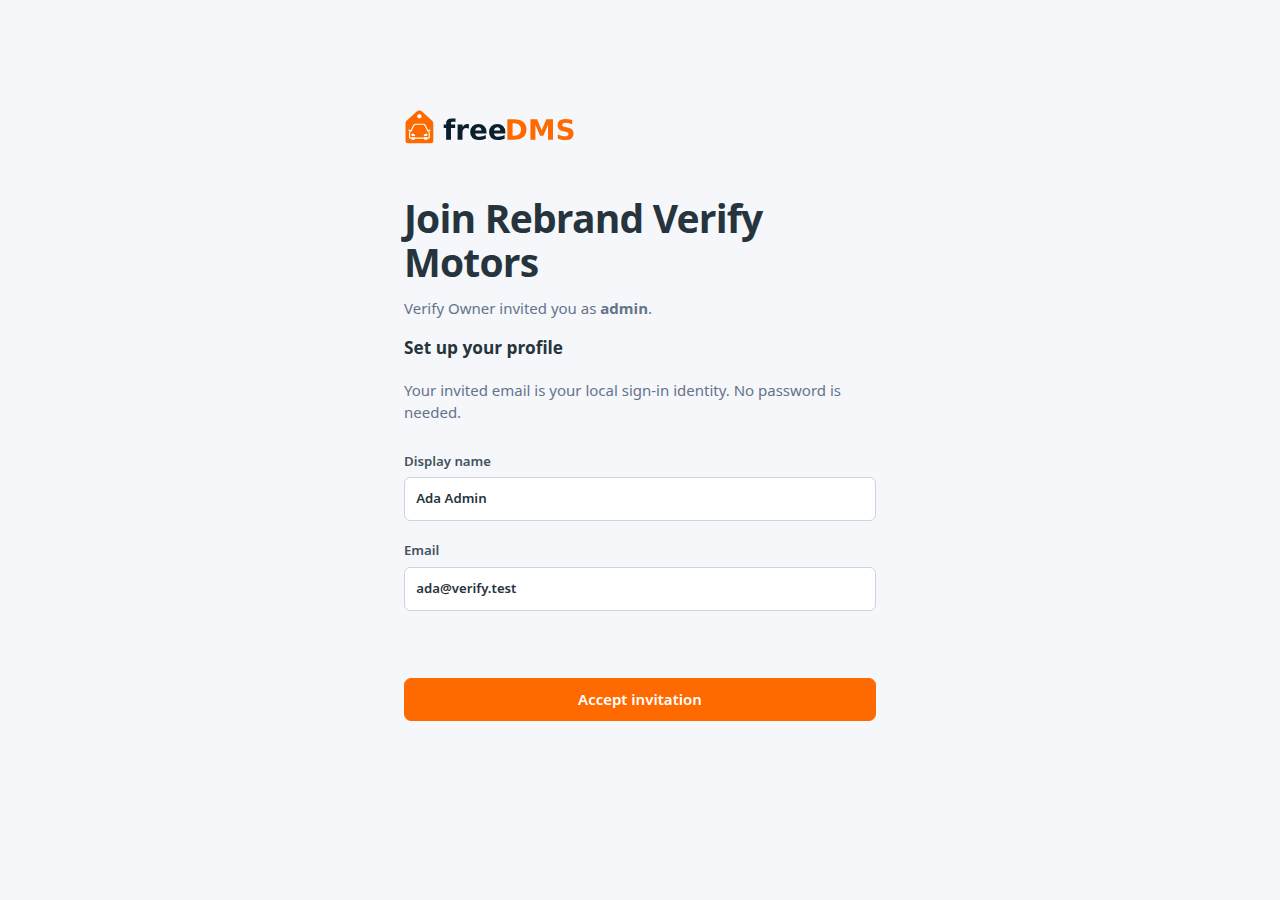
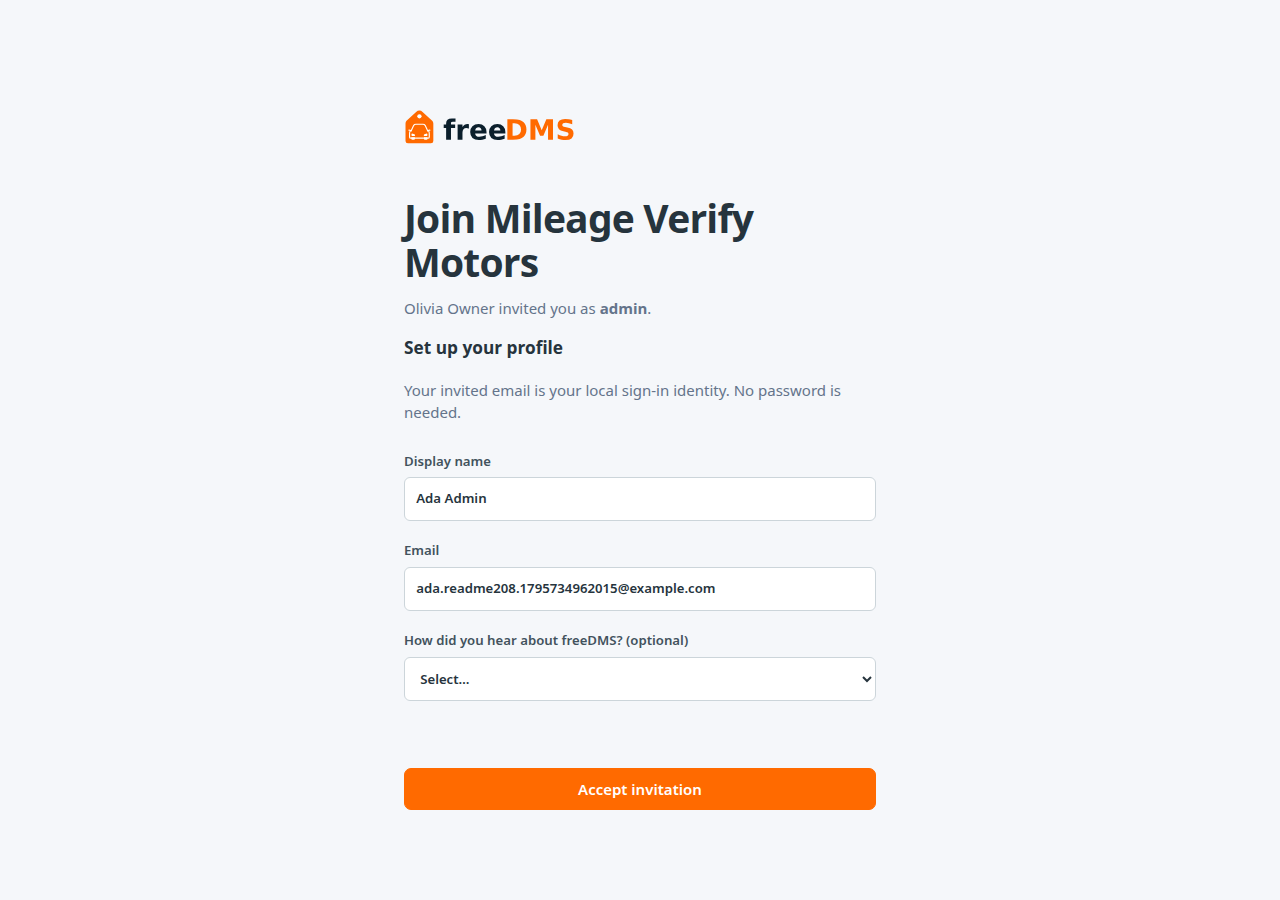
Add hear-about-us attribution capture to pilot request and invite acceptance (#208)

diff --git a/packages/web/src/onboarding.ts b/packages/web/src/onboarding.ts
@@ -2,8 +2,9 @@ import { TERMS_VERSION, PRIVACY_VERSION } from '@freedms/shared';
 import type { Invite } from '@freedms/shared';
 import { escapeHtml as e } from './format';
 import { bindInviteCopies, inviteLinksHtml } from './invites';
+import { bindHearAbout, hearAboutFieldsHtml, readHearAbout } from './hear-about';
 interface InviteRow { name: string; email: string; role: string }
-export interface Onboarding { name: string; email: string; dealership: string; address: string; phone: string; dealerType: string; invites: InviteRow[] }
+export interface Onboarding { name: string; email: string; dealership: string; address: string; phone: string; dealerType: string; invites: InviteRow[]; hearAbout: string; hearAboutPrompt: string }
 export function onboardingError(data: Onboarding, step: number, accepted = false): string {
   const email = (value: string) => /^[^\s@]+@[^\s@]+\.[^\s@]+$/.test(value.trim()) && value.trim().length <= 254;
   if (step === 0 && (!data.name.trim() || !email(data.email))) return 'Enter your name and a valid email address.';
@@ -28,20 +29,22 @@ export function acceptanceHtml(accepted: boolean): string {
   return `<p><strong>Draft — pending final legal review</strong></p><p>By accepting, you represent that the dealership exists and you have authority to bind it. If no dealership is bound because it does not exist or you lack authority, you agree personally to be bound as the Dealer, as described in Section 1.1.</p><label class="check terms-accept"><input type="checkbox" name="termsAccepted" ${accepted ? 'checked' : ''}><span>I agree to the <a href="#/terms" target="_blank" rel="noopener noreferrer">Terms of Service</a> and <a href="#/privacy" target="_blank" rel="noopener noreferrer">Privacy Notice</a></span></label>`;
 }
 export function mountOnboarding(root: HTMLElement, finish: (data: ReturnType<typeof signupPayload>) => Promise<{invites: Invite[]}>, enter: () => void): void {
-  const data: Onboarding = {name: '', email: '', dealership: '', address: '', phone: '', dealerType: '', invites: []};
+  const data: Onboarding = {name: '', email: '', dealership: '', address: '', phone: '', dealerType: '', invites: [], hearAbout: '', hearAboutPrompt: ''};
   let step = 0, accepted = false;
   const field = (label: string, key: string, value: string, max = 120, type = 'text') => `<label>${label}<input name="${key}" value="${e(value)}" maxlength="${max}" type="${type}"></label>`;
   function render() {
     const titles = ['Your account', 'Your dealership', 'Invite your team (optional)', 'Review and finish'];
-    root.innerHTML = `<p class="eyebrow">Step ${step + 1} of 4</p><h2>${titles[step]}</h2><form novalidate><div class="error" role="alert" tabindex="-1" hidden></div>${step === 0 ? field('Your name', 'name', data.name) + field('Email', 'email', data.email, 254, 'email') : step === 1 ? field('Dealership name', 'dealership', data.dealership) + field('Address', 'address', data.address, 500) + field('Phone', 'phone', data.phone, 50, 'tel') + `<label>Dealer type<select name="dealerType">${['', 'independent', 'franchise', 'other'].map(v => `<option value="${v}" ${data.dealerType === v ? 'selected' : ''}>${v || 'Choose a dealer type'}</option>`).join('')}</select></label>` : step === 2 ? `<p>Share invite links yourself. No email is sent. Up to 10 invites.</p>${data.invites.map((row, i) => `<fieldset><legend>Invite ${i + 1}</legend>${field('Name', `name-${i}`, row.name)}${field('Email', `email-${i}`, row.email, 254, 'email')}<label>Role<select name="role-${i}">${['staff', 'admin'].map(v => `<option ${row.role === v ? 'selected' : ''}>${v}</option>`).join('')}</select></label><button type="button" data-remove="${i}">Remove invite ${i + 1}</button></fieldset>`).join('')}<button type="button" id="add-invite" ${data.invites.length >= 10 ? 'disabled' : ''}>Add invite</button>` : `<h3>Your account</h3><p>${e(data.name)} · ${e(data.email)}</p><h3>Your dealership</h3><p>${e(data.dealership)}<br>${e(data.address)}<br>${e(data.phone)} · ${e(data.dealerType)}</p><h3>Your team</h3>${data.invites.length ? `<ul>${data.invites.map(r => `<li>${e(r.name)} · ${e(r.email)} · ${e(r.role)}</li>`).join('')}</ul>` : '<p>No invites.</p>'}<p>Finish creates your empty workspace and pending invites. No email is sent.</p>${acceptanceHtml(accepted)}`}<div class="form-actions">${step ? '<button type="button" id="wizard-back">Back</button>' : ''}<button class="primary" type="submit" ${step === 3 && !accepted ? 'disabled' : ''}>${step === 3 ? 'Finish' : step === 2 && !data.invites.length ? 'Skip / Next' : 'Next'}</button></div></form>`;
+    root.innerHTML = `<p class="eyebrow">Step ${step + 1} of 4</p><h2>${titles[step]}</h2><form novalidate><div class="error" role="alert" tabindex="-1" hidden></div>${step === 0 ? field('Your name', 'name', data.name) + field('Email', 'email', data.email, 254, 'email') : step === 1 ? field('Dealership name', 'dealership', data.dealership) + field('Address', 'address', data.address, 500) + field('Phone', 'phone', data.phone, 50, 'tel') + `<label>Dealer type<select name="dealerType">${['', 'independent', 'franchise', 'other'].map(v => `<option value="${v}" ${data.dealerType === v ? 'selected' : ''}>${v || 'Choose a dealer type'}</option>`).join('')}</select></label>` : step === 2 ? `<p>Share invite links yourself. No email is sent. Up to 10 invites.</p>${data.invites.map((row, i) => `<fieldset><legend>Invite ${i + 1}</legend>${field('Name', `name-${i}`, row.name)}${field('Email', `email-${i}`, row.email, 254, 'email')}<label>Role<select name="role-${i}">${['staff', 'admin'].map(v => `<option ${row.role === v ? 'selected' : ''}>${v}</option>`).join('')}</select></label><button type="button" data-remove="${i}">Remove invite ${i + 1}</button></fieldset>`).join('')}<button type="button" id="add-invite" ${data.invites.length >= 10 ? 'disabled' : ''}>Add invite</button>` : `<h3>Your account</h3><p>${e(data.name)} · ${e(data.email)}</p><h3>Your dealership</h3><p>${e(data.dealership)}<br>${e(data.address)}<br>${e(data.phone)} · ${e(data.dealerType)}</p><h3>Your team</h3>${data.invites.length ? `<ul>${data.invites.map(r => `<li>${e(r.name)} · ${e(r.email)} · ${e(r.role)}</li>`).join('')}</ul>` : '<p>No invites.</p>'}<p>Finish creates your empty workspace and pending invites. No email is sent.</p>${hearAboutFieldsHtml(data.hearAbout, data.hearAboutPrompt)}${acceptanceHtml(accepted)}`}<div class="form-actions">${step ? '<button type="button" id="wizard-back">Back</button>' : ''}<button class="primary" type="submit" ${step === 3 && !accepted ? 'disabled' : ''}>${step === 3 ? 'Finish' : step === 2 && !data.invites.length ? 'Skip / Next' : 'Next'}</button></div></form>`;
     const form = root.querySelector('form')!;
     const checkbox = form.querySelector<HTMLInputElement>('[name=termsAccepted]');
     checkbox?.addEventListener('change', () => { accepted = checkbox.checked; form.querySelector<HTMLButtonElement>('[type=submit]')!.disabled = !accepted; });
     const save = () => {
       const values = new FormData(form);
-      if (step === 0 || step === 1) for (const key of (step === 0 ? ['name', 'email'] : ['dealership', 'address', 'phone', 'dealerType']) as (keyof Omit<Onboarding, 'invites'>)[]) data[key] = String(values.get(key) ?? '');
+      if (step === 0 || step === 1) for (const key of (step === 0 ? ['name', 'email'] : ['dealership', 'address', 'phone', 'dealerType']) as (keyof Omit<Onboarding, 'invites' | 'hearAbout' | 'hearAboutPrompt'>)[]) data[key] = String(values.get(key) ?? '');
       if (step === 2) data.invites.forEach((row, i) => { for (const key of ['name', 'email', 'role'] as const) row[key] = String(values.get(`${key}-${i}`) ?? ''); });
+      if (step === 3) Object.assign(data, readHearAbout(form));
     };
+    if (step === 3) bindHearAbout(form);
     root.querySelector('#wizard-back')?.addEventListener('click', () => { save(); step--; render(); });
     root.querySelector('#add-invite')?.addEventListener('click', () => { save(); data.invites.push({name: '', email: '', role: 'staff'}); render(); });
     root.querySelectorAll<HTMLButtonElement>('[data-remove]').forEach(b => b.addEventListener('click', () => { save(); data.invites.splice(Number(b.dataset.remove), 1); render(); }));

diff --git a/packages/api/src/invites.ts b/packages/api/src/invites.ts
@@ -4,6 +4,7 @@ import type { CrmWrite, RepositoryFactory, TenantRepository } from './repository
 import { ApiError, conflict, missing, requireId } from './errors.js';
 import { parseBody, response, type ApiRequest } from './handler.js';
 import { invalid, object, onlyKeys, text } from './validation.js';
+import { hearAbout as parseHearAbout } from './hear-about.js';
 import { emailAddress } from './users.js';
 const hash = (token: string) => createHash('sha256').update(token).digest('hex');
 function credentials(tenantId: string) {
@@ -11,11 +12,12 @@ function credentials(tenantId: string) {
   return {token, tokenHash: hash(token)};
 }
 export function validateOnboarding(input: Record<string, unknown>) {
-  onlyKeys(input, ['acceptance', 'onboarding', 'name', 'email', 'dealership', 'address', 'phone', 'dealerType', 'invites']);
+  onlyKeys(input, ['acceptance', 'onboarding', 'name', 'email', 'dealership', 'address', 'phone', 'dealerType', 'invites', 'hearAbout', 'hearAboutPrompt']);
   text(input.name, 'Your name'); text(input.dealership, 'Dealership');
   const email = emailAddress(input.email);
   if (!['independent', 'franchise', 'other'].includes(String(input.dealerType))) throw invalid('Choose a dealer type.');
-  const profile = {address: text(input.address, 'Address', 500), phone: text(input.phone, 'Phone', 50), dealerType: input.dealerType as Tenant['dealerType']};
+  const attribution = parseHearAbout(input);
+  const profile = {address: text(input.address, 'Address', 500), phone: text(input.phone, 'Phone', 50), dealerType: input.dealerType as Tenant['dealerType'], ...(attribution.hearAbout ? {hearAbout: attribution.hearAbout, hearAboutPrompt: attribution.hearAboutPrompt} : {})};
   if (!Array.isArray(input.invites) || input.invites.length > 10) throw invalid('Enter at most 10 invites.');
   const seen = new Set([email]);
   const invites = input.invites.map(value => {
@@ -94,7 +96,7 @@ export async function manageInvites(request: ApiRequest, principal: Principal, r
   return response(200, {data: fresh ? {...record, token: fresh.token} : record});
 }
 /** Validate against the stored invite inside the repository write boundary. */
-export function acceptanceWrite(tenantId: string, current: Invite | undefined, supplied: Invite, user: User, rows: WorkspaceUser[], now: Date, tenant: Tenant | undefined) {
+export function acceptanceWrite(tenantId: string, current: Invite | undefined, supplied: Invite, user: User, rows: WorkspaceUser[], now: Date, tenant: Tenant | undefined, attribution?: {hearAbout: string; hearAboutPrompt: string}) {
   if (!tenant || tenant.id !== tenantId) throw conflict();
   if (!current || current.tenantId !== tenantId || supplied.tenantId !== tenantId || current.version !== supplied.version || current.tokenHash !== supplied.tokenHash || current.status !== 'pending' || current.expiresAt <= now.toISOString()) throw conflict();
   if (user.email !== current.email || !user.name.trim() || rows.some(r => r.user.id === user.id)) throw conflict();
@@ -105,14 +107,17 @@ export function acceptanceWrite(tenantId: string, current: Invite | undefined, s
   const member = {tenantId, userId: user.id, role: current.role, active: true, version: 1};
   const event = {...inviteWrite(record, user.id, current.version).event, type: 'invite.accepted' as const};
   const memberEvent = {...event, id: randomUUID(), aggregateId: user.id, aggregateVersion: 1, type: 'user.added' as const};
-  return {record, member, event, memberEvent, tenant: {...tenant, inviteAcceptedAt: tenant.inviteAcceptedAt ?? now.toISOString()}};
+  // Attribution is asked once per tenant (#208): the first answer given at any
+  // acceptance wins and later acceptances never overwrite it.
+  return {record, member, event, memberEvent, tenant: {...tenant, inviteAcceptedAt: tenant.inviteAcceptedAt ?? now.toISOString(), ...(attribution?.hearAbout && !tenant.hearAbout ? {hearAbout: attribution.hearAbout, hearAboutPrompt: attribution.hearAboutPrompt} : {})}};
 }
 export async function publicInvite(request: ApiRequest, repositories: RepositoryFactory, now: Date, hosted = false) {
   const method = request.method.toUpperCase();
   const accepting = request.path.endsWith('/accept');
   if (method !== (accepting ? 'POST' : 'GET')) throw new ApiError(405, 'METHOD_NOT_ALLOWED', 'Method not allowed.');
   let profile: {name: string; email: string} | undefined;
-  if (accepting) { const body = parseBody(request.body); onlyKeys(body, ['name', 'email']); profile = {name: text(body.name, 'Name'), email: emailAddress(body.email)}; }
+  let attribution: {hearAbout: string; hearAboutPrompt: string} | undefined;
+  if (accepting) { const body = parseBody(request.body); onlyKeys(body, ['name', 'email', 'hearAbout', 'hearAboutPrompt']); profile = {name: text(body.name, 'Name'), email: emailAddress(body.email)}; attribution = parseHearAbout(body); }
   const refuse = (reason?: 'expired' | 'revoked' | 'accepted') => response(200, {data: accepting ? {outcome: 'refused', ...(reason ? {reason} : {})} : {valid: false, ...(reason ? {reason} : {})}});
   const match = /^\/invite\/([\w-]{1,128}\.[a-f0-9]{64})(?:\/accept)?$/.exec(request.path);
   if (!match) return refuse();
@@ -132,7 +137,7 @@ export async function publicInvite(request: ApiRequest, repositories: Repository
       throw new ApiError(403, 'INVITE_IDENTITY', 'Sign in with the verified account invited to this dealership.');
     const user = {id: hosted ? requireId(request.claims!.sub) : randomUUID(), name: profile.name, email: invite.email};
     try {
-      const outcome = await repo.acceptInvite(invite, user, now);
+      const outcome = await repo.acceptInvite(invite, user, now, attribution);
       return response(200, {data: {outcome, tenantId: tenant.id, email: invite.email, role: invite.role, dealership: tenant.name}});
     } catch (error) {
       if (error instanceof ApiError && error.status === 409) {

diff --git a/packages/api/test/access-requests.test.ts b/packages/api/test/access-requests.test.ts
@@ -28,7 +28,7 @@ test('public access capture stores only an operator record, with no membership, 
   const result = await post();
   assert.equal(result.statusCode, 201); assert.deepEqual(JSON.parse(result.body), {data: {received: true}});
   const records = await repo.accessRequests(); assert.equal(records.length, 1);
-  assert.deepEqual(records[0], {...fields, id: records[0].id, tenantId: 'operator', status: 'pending', handledAt: null, version: 1, createdAt: start.toISOString(), updatedAt: start.toISOString()});
+  assert.deepEqual(records[0], {...fields, hearAbout: '', hearAboutPrompt: '', id: records[0].id, tenantId: 'operator', status: 'pending', handledAt: null, version: 1, createdAt: start.toISOString(), updatedAt: start.toISOString()});
   for (const partition of [repo, repositories.forTenant('real-dealership')]) {
     assert.equal(await partition.tenant(), undefined);
     assert.deepEqual(await partition.users(), []); assert.deepEqual(await partition.workspaceUsers(), []);
@@ -133,6 +133,21 @@ test('Dynamo access requests use operator keys, conditional writes without event
   await assert.rejects(dynamo.saveAccessRequest({...record, version: 3}, 0), /version/);
 });
 
+test('access capture stores hear-about attribution and the AI prompt, and only for the AI answer', async () => {
+  const {post, repo} = setup();
+  assert.equal((await post({...fields, hearAbout: 'ai-assistant', hearAboutPrompt: 'best free DMS for a small used car lot'})).statusCode, 201);
+  const record = (await repo.accessRequests())[0];
+  assert.equal(record.hearAbout, 'ai-assistant'); assert.equal(record.hearAboutPrompt, 'best free DMS for a small used car lot');
+  const {post: post2, repo: repo2} = setup();
+  await post2({...fields, hearAbout: 'search', hearAboutPrompt: 'should be dropped'});
+  const other = (await repo2.accessRequests())[0];
+  assert.equal(other.hearAbout, 'search'); assert.equal(other.hearAboutPrompt, '');
+  for (const body of [{...fields, hearAbout: 'billboard'}, {...fields, hearAbout: 'ai-assistant', hearAboutPrompt: 'x'.repeat(501)}, {...fields, hearAbout: 42}]) {
+    const {post: postBad, repo: repoBad} = setup();
+    assert.equal((await postBad(body)).statusCode, 400); assert.deepEqual(await repoBad.accessRequests(), []);
+  }
+});
+
 test('access capture refuses oversized UTF-8 bodies before saving', async () => {
   const {post, repo} = setup();
   const result = await post({...fields, message: 'é'.repeat(8192)});
@@ -156,7 +171,7 @@ test('new access request emails the operator after saving, and repeats never ema
   assert.equal((await post()).statusCode, 201);
   assert.deepEqual(sent, [{to: notifyTo, replyTo: fields.email,
     subject: `New freeDMS pilot access request — ${fields.dealershipName}`,
-    text: `Contact name: ${fields.contactName}\nDealership name: ${fields.dealershipName}\nEmail: ${fields.email}\nPhone: ${fields.phone}\nInventory size: ${fields.inventorySize}\nCurrent DMS: ${fields.currentDms}\nMessage: ${fields.message}\nSubmitted: ${start.toISOString()}`}]);
+    text: `Contact name: ${fields.contactName}\nDealership name: ${fields.dealershipName}\nEmail: ${fields.email}\nPhone: ${fields.phone}\nInventory size: ${fields.inventorySize}\nCurrent DMS: ${fields.currentDms}\nMessage: ${fields.message}\nHow they heard about freeDMS: \nWhat they asked the assistant: \nSubmitted: ${start.toISOString()}`}]);
   const first = await repo.accessRequest(fields.email);
   setNow(new Date('2026-10-31T12:00:00Z'));
   const repeat = await post({...fields, message: 'Updated'});
@@ -170,7 +185,7 @@ test('notification labels include blank optional fields', async () => {
   const {sent, mail} = fakeMail(); const {post} = setup(mail);
   await post({contactName: fields.contactName, dealershipName: fields.dealershipName, email: fields.email});
   assert.equal(sent.length, 1);
-  assert.ok(sent[0].text.includes('\nPhone: \nInventory size: \nCurrent DMS: \nMessage: \nSubmitted: '));
+  assert.ok(sent[0].text.includes('\nPhone: \nInventory size: \nCurrent DMS: \nMessage: \nHow they heard about freeDMS: \nWhat they asked the assistant: \nSubmitted: '));
 });
 
 test('honeypot and rejected requests never send email', async () => {

diff --git a/packages/web/src/invites.ts b/packages/web/src/invites.ts
@@ -1,6 +1,7 @@
 import { brandLogoUrl } from './brand';
 import type { Invite } from '@freedms/shared';
 import { escapeHtml as e } from './format';
+import { hearAboutFieldsHtml } from './hear-about';
 export function inviteLink(token: string, base = `${location.origin}${location.pathname}`): string { return `${base}#/invite/${token}`; }
 export function inviteLinksHtml(invites: (Invite & {token?: string})[], base?: string): string {
   return invites.length ? invites.map(i => `<article class="card"><h3>${e(i.name)}</h3><p>${e(i.email)} · ${e(i.role)} · ${e(i.status)}${i.status === 'accepted' ? `<br>Accepted ${e(i.acceptedAt ?? '')} as ${e(i.acceptedName ?? i.name)} (${e(i.email)})` : `<br>Expires ${e(i.expiresAt)}`}</p>${i.status === 'pending' ? i.token ? `<label>Invite link<input readonly value="${e(inviteLink(i.token, base))}"></label><button type="button" data-copy>Copy link</button>` : '<p>Invite link was shown once when created. Reissue to get a new link.</p>' : ''}</article>`).join('') : '<p>No invites.</p>';
@@ -15,7 +16,7 @@ export function bindInviteCopies(root: ParentNode): void {
 export type InviteView = {valid: false; reason?: 'expired' | 'revoked' | 'accepted'} | {valid: true; dealership: string; inviter: string; name: string; email: string; role: string};
 export function inviteLandingHtml(view: InviteView, hosted = false, signedIn = false): string {
   const titles = {expired: 'This invite has expired', revoked: 'This invite was revoked', accepted: 'This invite was already used'};
-  return `<main class="login"><span class="brand"><img src="${brandLogoUrl}" alt="freeDMS"></span>${view.valid ? `<h1>Join ${e(view.dealership)}</h1><p>${e(view.inviter)} invited you as <strong>${e(view.role)}</strong>.</p><h2>Set up your profile</h2><p>${hosted ? 'Sign in with your invited account, then confirm your profile to join.' : 'Your invited email is your local sign-in identity. No password is needed.'}</p>${hosted && !signedIn ? '<button id="invite-signin" class="primary">Sign in to accept</button>' : ''}<form id="accept-invite" ${hosted && !signedIn ? 'hidden' : ''}><label>Display name<input name="name" required maxlength="120" autocomplete="name" value="${e(view.name)}"></label><label>Email<input name="email" type="email" required maxlength="254" autocomplete="email" value="${e(view.email)}"></label><p id="email-warning" role="status" hidden>Acceptance requires the invited email: ${e(view.email)}.</p><p id="invite-message" role="alert"></p><button class="primary">Accept invitation</button></form>` : `<h1>${view.reason ? titles[view.reason] : 'This invite link is not valid'}</h1><p>Ask your admin to reissue a link.</p>`}</main>`;
+  return `<main class="login"><span class="brand"><img src="${brandLogoUrl}" alt="freeDMS"></span>${view.valid ? `<h1>Join ${e(view.dealership)}</h1><p>${e(view.inviter)} invited you as <strong>${e(view.role)}</strong>.</p><h2>Set up your profile</h2><p>${hosted ? 'Sign in with your invited account, then confirm your profile to join.' : 'Your invited email is your local sign-in identity. No password is needed.'}</p>${hosted && !signedIn ? '<button id="invite-signin" class="primary">Sign in to accept</button>' : ''}<form id="accept-invite" ${hosted && !signedIn ? 'hidden' : ''}><label>Display name<input name="name" required maxlength="120" autocomplete="name" value="${e(view.name)}"></label><label>Email<input name="email" type="email" required maxlength="254" autocomplete="email" value="${e(view.email)}"></label>${hearAboutFieldsHtml()}<p id="email-warning" role="status" hidden>Acceptance requires the invited email: ${e(view.email)}.</p><p id="invite-message" role="alert"></p><button class="primary">Accept invitation</button></form>` : `<h1>${view.reason ? titles[view.reason] : 'This invite link is not valid'}</h1><p>Ask your admin to reissue a link.</p>`}</main>`;
 }
 export const invitedEmailMatches = (email: string, invited: string) => email.trim().toLowerCase() === invited.toLowerCase();
 export function inviteSignInHtml(tenantId: string, email: string, already = false, hosted = false): string {

diff --git a/site/index.html b/site/index.html
@@ -253,6 +253,7 @@ footer a:hover{color:#fff}
 .access-request{margin-top:36px;max-width:760px}
 .access-fields{display:grid;grid-template-columns:repeat(2,minmax(0,1fr));gap:18px;margin-bottom:20px}
 .access-fields label{display:block;font-weight:600}
+.access-fields label[hidden]{display:none}
 .access-fields input,.access-fields select,.access-fields textarea{display:block;width:100%;margin-top:6px;padding:10px 12px;border:1px solid var(--line);border-radius:8px;font:inherit;color:var(--ink);background:var(--paper)}
 .access-fields textarea{resize:vertical}
 .access-wide{grid-column:1/-1}
@@ -516,6 +517,16 @@ footer a:hover{color:#fff}
             <option value="201+">201+ vehicles</option>
           </select></label>
           <label>Current DMS (optional)<input name="currentDms" maxlength="120"></label>
+          <label>How did you hear about freeDMS? (optional)<select name="hearAbout">
+            <option value="">Select…</option>
+            <option value="referred">Referred by another dealer</option>
+            <option value="ai-assistant">An AI assistant (ChatGPT, Gemini, or similar)</option>
+            <option value="search">Search (Google, Bing, …)</option>
+            <option value="community">Community or trade press</option>
+            <option value="invited">Invited directly</option>
+            <option value="other">Other</option>
+          </select></label>
+          <label id="hear-about-prompt" hidden>What did you ask it? (optional)<input name="hearAboutPrompt" maxlength="500" placeholder="e.g. best free DMS for a small used car lot"><small>The exact words help us show up when other dealers ask the same thing.</small></label>
           <label class="access-wide">Message (optional)<textarea name="message" maxlength="2000" rows="4"></textarea></label>
         </div>
         <div class="access-honeypot" aria-hidden="true"><label>Website<input name="website" type="text" tabindex="-1" autocomplete="off"></label></div>
@@ -629,6 +640,9 @@ document.querySelector('#tourThumbs button').setAttribute('aria-pressed','true')
 <script src="https://challenges.cloudflare.com/turnstile/v0/api.js" async defer></script>
 <script>
 const accessForm = document.getElementById('access-form');
+accessForm.querySelector('[name="hearAbout"]').addEventListener('change', (event) => {
+  document.getElementById('hear-about-prompt').hidden = event.target.value !== 'ai-assistant';
+});
 accessForm.addEventListener('submit', async (event) => {
   event.preventDefault();
   const button = accessForm.querySelector('button[type="submit"]');
@@ -637,7 +651,7 @@ accessForm.addEventListener('submit', async (event) => {
   error.hidden = true;
   const fields = new FormData(accessForm);
   const body = {};
-  for (const key of ['contactName', 'dealershipName', 'email', 'phone', 'inventorySize', 'currentDms', 'message', 'website']) body[key] = fields.get(key);
+  for (const key of ['contactName', 'dealershipName', 'email', 'phone', 'inventorySize', 'currentDms', 'message', 'hearAbout', 'hearAboutPrompt', 'website']) body[key] = fields.get(key);
   if (accessForm.querySelector('.cf-turnstile')) body.turnstileToken = fields.get('cf-turnstile-response') || '';
   const controller = new AbortController();
   let timer;

diff --git a/packages/api/src/access-requests.ts b/packages/api/src/access-requests.ts
@@ -6,6 +6,7 @@ import { ApiError, conflict, missing } from './errors.js';
 import { parseBody, response, type ApiRequest, type ApiResponse } from './handler.js';
 import { OPERATOR_TENANT_ID, type RepositoryFactory } from './repository.js';
 import { emailAddress } from './users.js';
+import { hearAbout } from './hear-about.js';
 import { invalid, onlyKeys, text, version } from './validation.js';
 
 export type PilotOperator = Pick<Principal, 'tenantId' | 'userId'>;
@@ -40,7 +41,7 @@ export interface AccessRequestMail {
 export async function submitAccessRequest(request: ApiRequest, repositories: RepositoryFactory, now: Date, mail?: AccessRequestMail, turnstile?: TurnstileVerifier): Promise<ApiResponse> {
   if (request.method !== 'POST') throw new ApiError(405, 'METHOD_NOT_ALLOWED', 'Method not allowed.');
   const body = parseBody(request.body, 16 * 1024);
-  onlyKeys(body, ['contactName', 'dealershipName', 'email', 'phone', 'inventorySize', 'currentDms', 'message', 'website', 'turnstileToken']);
+  onlyKeys(body, ['contactName', 'dealershipName', 'email', 'phone', 'inventorySize', 'currentDms', 'message', 'hearAbout', 'hearAboutPrompt', 'website', 'turnstileToken']);
   if (typeof body.website === 'string' && body.website.trim()) return response(201, {data: {received: true}});
   if (turnstile?.configured) {
     let verified = false;
@@ -57,13 +58,14 @@ export async function submitAccessRequest(request: ApiRequest, repositories: Rep
   if (inventorySize && !inventorySizes.includes(inventorySize as typeof inventorySizes[number])) throw invalid('Invalid inventory size.');
   const currentDms = text(body.currentDms ?? '', 'Current DMS', 120, true);
   const message = text(body.message ?? '', 'Message', 2000, true);
+  const attribution = hearAbout(body);
   const repository = repositories.forTenant(OPERATOR_TENANT_ID);
   const existing = await repository.accessRequest(email);
   if (existing) return response(201, {data: {received: true}});
   const timestamp = now.toISOString();
   const record: AccessRequest = {
     id: randomUUID(), tenantId: OPERATOR_TENANT_ID, email,
-    contactName, dealershipName, phone, inventorySize, currentDms, message,
+    contactName, dealershipName, phone, inventorySize, currentDms, message, ...attribution,
     status: 'pending', handledAt: null,
     version: 1, createdAt: timestamp, updatedAt: timestamp
   };
@@ -77,7 +79,8 @@ export async function submitAccessRequest(request: ApiRequest, repositories: Rep
         text: [
           `Contact name: ${record.contactName}`, `Dealership name: ${record.dealershipName}`,
           `Email: ${record.email}`, `Phone: ${record.phone}`, `Inventory size: ${record.inventorySize}`,
-          `Current DMS: ${record.currentDms}`, `Message: ${record.message}`, `Submitted: ${record.createdAt}`
+          `Current DMS: ${record.currentDms}`, `Message: ${record.message}`,
+          `How they heard about freeDMS: ${record.hearAbout}`, `What they asked the assistant: ${record.hearAboutPrompt}`, `Submitted: ${record.createdAt}`
         ].join('\n')
       });
     } catch (error) {

diff --git a/packages/web/test/onboarding.test.ts b/packages/web/test/onboarding.test.ts
@@ -4,7 +4,7 @@ import { onboardingError, type Onboarding } from '../src/onboarding.js';
 import { inviteLinksHtml, inviteLandingHtml, inviteLink, welcomeHtml, welcomeDismissed, dismissWelcome, invitedEmailMatches } from '../src/invites.js';
 import { usersHtml } from '../src/users.js';
 import type { Invite } from '@freedms/shared';
-const data: Onboarding = {name: 'Owner', email: 'owner@example.test', dealership: 'Motors', address: 'Main St', phone: '555', dealerType: 'other', invites: []};
+const data: Onboarding = {name: 'Owner', email: 'owner@example.test', dealership: 'Motors', address: 'Main St', phone: '555', dealerType: 'other', invites: [], hearAbout: '', hearAboutPrompt: ''};
 test('wizard validates each step, permits skipping invites, and rejects duplicate/self invites', () => {
   for (const step of [0, 1, 2]) assert.equal(onboardingError(data, step), '');
   assert.ok(onboardingError({...data, name: ''}, 0)); assert.ok(onboardingError({...data, email: 'bad'}, 0));
@@ -15,6 +15,8 @@ test('wizard validates each step, permits skipping invites, and rejects duplicat
 test('invite pages escape content and explain pending acceptance and unavailable links', () => {
   const html = inviteLandingHtml({valid: true, dealership: '<Motors>', inviter: 'Owner', name: 'Team', email: 'team@example.test', role: 'staff'});
   assert.match(html, /&lt;Motors&gt;/); assert.match(html, /Set up your profile/);
+  assert.match(html, /How did you hear about freeDMS\? \(optional\)/); assert.match(html, /An AI assistant \(ChatGPT, Gemini, or similar\)/);
+  assert.match(html, /data-hear-about-prompt hidden/); assert.match(html, /What did you ask it\? \(optional\)/);
   assert.match(inviteLandingHtml({valid: false}), /Ask your admin to reissue a link/);
   assert.equal(inviteLink('token', 'https://example.test/app/'), 'https://example.test/app/#/invite/token');
 });
@@ -33,7 +35,7 @@ test('users explain one-time pending links and final revocation without mutation
 test('profile has fixed role, prefilled identity and reason-specific dead ends', () => {
   const html = inviteLandingHtml({valid: true, dealership: 'Motors', inviter: 'Owner', name: 'Team', email: 'team@example.test', role: 'staff'});
   for (const value of ['Owner', 'staff', 'value="Team"', 'value="team@example.test"']) assert.ok(html.includes(value));
-  assert.doesNotMatch(html, /name="role"|<select/);
+  assert.doesNotMatch(html, /name="role"|<select name="role"/);
   for (const [reason, title] of [['expired', 'expired'], ['revoked', 'revoked'], ['accepted', 'already used']] as const) {
     const dead = inviteLandingHtml({valid: false, reason}); assert.ok(dead.includes(title)); assert.match(dead, /reissue a link/);
   }

diff --git a/packages/web/src/pilot-requests.ts b/packages/web/src/pilot-requests.ts
@@ -1,4 +1,4 @@
-import { assistantTiers, type AccessRequest, type AssistantWaitlistEntry } from '@freedms/shared';
+import { assistantTiers, hearAboutLabel, type AccessRequest, type AssistantWaitlistEntry } from '@freedms/shared';
 import type { UI } from './desking';
 import { escapeHtml as e } from './format';
 import { showLoadError } from './load-error';
@@ -10,7 +10,7 @@ export function pilotRequestsHtml(requests: AccessRequest[], status: AccessReque
     <nav class="filters" aria-label="Request status"><a class="button${status === 'pending' ? ' primary' : ''}" href="#/pilot-requests" ${status === 'pending' ? 'aria-current="page"' : ''}>Pending</a><a class="button${status === 'handled' ? ' primary' : ''}" href="#/pilot-requests/handled" ${status === 'handled' ? 'aria-current="page"' : ''}>Handled</a></nav>
     <p class="muted">${requests.length} ${status} request${requests.length === 1 ? '' : 's'}</p>
     ${requests.length ? requests.map(r => `<section class="card pilot-request"><h2>${e(r.dealershipName)}</h2><p><strong>${e(r.contactName)}</strong> · <a href="mailto:${e(encodeURIComponent(r.email))}">${e(r.email)}</a></p>
-      <dl class="detail-grid"><div><dt>Phone</dt><dd>${e(r.phone || 'Not provided')}</dd></div><div><dt>Inventory</dt><dd>${e(r.inventorySize || 'Not provided')}</dd></div><div><dt>Current DMS</dt><dd>${e(r.currentDms || 'Not provided')}</dd></div><div><dt>Submitted</dt><dd>${date(r.createdAt)}</dd></div></dl>
+      <dl class="detail-grid"><div><dt>Phone</dt><dd>${e(r.phone || 'Not provided')}</dd></div><div><dt>Inventory</dt><dd>${e(r.inventorySize || 'Not provided')}</dd></div><div><dt>Current DMS</dt><dd>${e(r.currentDms || 'Not provided')}</dd></div><div><dt>Submitted</dt><dd>${date(r.createdAt)}</dd></div><div><dt>Heard about freeDMS</dt><dd>${e(r.hearAbout ? hearAboutLabel(r.hearAbout) : 'Not provided')}</dd></div>${r.hearAboutPrompt ? `<div><dt>Asked the assistant</dt><dd>${e(r.hearAboutPrompt)}</dd></div>` : ''}</dl>
       <h3>Message</h3><p class="pilot-request-message">${e(r.message || 'No message provided.')}</p>
       <p class="muted">Last updated: ${date(r.updatedAt)}${r.handledAt ? ` · Handled: ${date(r.handledAt)}` : ''}</p>
       ${r.status === 'pending' ? `<div class="form-actions"><button type="button" class="primary" data-handle-request="${e(r.id)}">Mark handled</button></div>` : '<span class="badge">Handled</span>'}</section>`).join('') : `<div class="empty"><h2>No ${status} requests</h2><p>${status === 'pending' ? 'New pilot requests will appear here.' : 'Requests you finish reviewing will appear here.'}</p></div>`}

diff --git a/packages/api/test/onboarding.test.ts b/packages/api/test/onboarding.test.ts
@@ -44,6 +44,25 @@ test('wizard provisions the profile, admin email and seven-day pending invites w
   assert.ok(!JSON.stringify(events).includes('token')); assert.ok(!JSON.stringify(events).includes('example.test'));
   assert.equal((await repo.list({})).length, 0);
 });
+test('wizard stores optional hear-about attribution on the tenant record', async () => {
+  const s = await setup();
+  const result = await localSession(JSON.stringify({...payload(), hearAbout: 'ai-assistant', hearAboutPrompt: 'best free DMS for a small used car lot'}), s.repositories, s.tokens, now);
+  assert.equal(result.statusCode, 201);
+  const claims = s.tokens.verify(JSON.parse(result.body).data.token);
+  const tenant = await s.repositories.forTenant(claims['custom:tenant_id']).tenant();
+  assert.equal(tenant!.hearAbout, 'ai-assistant'); assert.equal(tenant!.hearAboutPrompt, 'best free DMS for a small used car lot');
+  await assert.rejects(localSession(JSON.stringify({...payload(), hearAbout: 'billboard'}), s.repositories, s.tokens, now), error => (error as {status: number}).status === 400);
+});
+test('invite acceptance stores attribution on the tenant once and never overwrites it', async () => {
+  const s = await setup(), a = await s.create();
+  const repo = s.repositories.forTenant(a.invites[0].tenantId);
+  const first = await s.call(`/invite/${a.invites[0].token}/accept`, '', 'POST', {name: a.invites[0].name, email: a.invites[0].email, hearAbout: 'search', hearAboutPrompt: 'dropped'});
+  assert.equal(first.data.outcome, 'accepted');
+  assert.equal((await repo.tenant())!.hearAbout, 'search'); assert.equal((await repo.tenant())!.hearAboutPrompt, '');
+  const second = await s.call(`/invite/${a.invites[1].token}/accept`, '', 'POST', {name: a.invites[1].name, email: a.invites[1].email, hearAbout: 'ai-assistant', hearAboutPrompt: 'best free DMS'});
+  assert.equal(second.data.outcome, 'accepted');
+  assert.equal((await repo.tenant())!.hearAbout, 'search'); assert.equal((await repo.tenant())!.hearAboutPrompt, '');
+});
 test('invalid wizard payloads never access a repository or provision a tenant', async () => {
   const s = await setup();
   const invalid = [{invites: [{name: 'X', email: 'bad', role: 'staff'}]}, {invites: [payload().invites[0], {...payload().invites[0], email: ' STAFF@example.test '}]}, {invites: [{name: 'Me', email: 'owner@example.test', role: 'admin'}]}, {dealerType: 'unknown'}, {email: 'bad'}, {address: ''}, {phone: ''}, {invites: Array(11).fill(payload().invites[0])}];

diff --git a/packages/web/test/pilot-requests.test.ts b/packages/web/test/pilot-requests.test.ts
@@ -5,7 +5,7 @@ import type { UI } from '../src/desking.js';
 import { pilotRequestsHtml, pilotRequestsRoute } from '../src/pilot-requests.js';
 import { sidebarNavigation } from '../src/sidebar.js';
 
-const record: AccessRequest = {id: 'request', tenantId: 'operator', email: 'dealer@example.test', contactName: '<Dealer>', dealershipName: 'A & B Motors', phone: '555-0100', inventorySize: '26-50', currentDms: 'Manual', message: '<script>alert(1)</script>', status: 'pending', handledAt: null, version: 2, createdAt: '2026-10-31T22:00:00Z', updatedAt: '2026-10-31T22:01:00Z'};
+const record: AccessRequest = {id: 'request', tenantId: 'operator', email: 'dealer@example.test', contactName: '<Dealer>', dealershipName: 'A & B Motors', phone: '555-0100', inventorySize: '26-50', currentDms: 'Manual', message: '<script>alert(1)</script>', hearAbout: '', hearAboutPrompt: '', status: 'pending', handledAt: null, version: 2, createdAt: '2026-10-31T22:00:00Z', updatedAt: '2026-10-31T22:01:00Z'};
 test('pilot inbox escapes submitted details and distinguishes pending and handled states', () => {
   const html = pilotRequestsHtml([record], 'pending');
   assert.match(html, /&lt;Dealer&gt;/); assert.match(html, /A &amp; B Motors/); assert.match(html, /&lt;script&gt;/); assert.doesNotMatch(html, /<script>/);
@@ -13,6 +13,12 @@ test('pilot inbox escapes submitted details and distinguishes pending and handle
   assert.match(pilotRequestsHtml([], 'pending'), /No pending requests/);
   const handled = pilotRequestsHtml([{...record, status: 'handled', handledAt: record.updatedAt}], 'handled');
   assert.match(handled, /Handled:/); assert.doesNotMatch(handled, /data-handle-request/);
+});
+test('pilot inbox shows hear-about attribution and the escaped AI prompt', () => {
+  const html = pilotRequestsHtml([{...record, hearAbout: 'ai-assistant', hearAboutPrompt: 'best <free> DMS'}], 'pending');
+  assert.match(html, /Heard about freeDMS/); assert.match(html, /An AI assistant \(ChatGPT, Gemini, or similar\)/);
+  assert.match(html, /Asked the assistant/); assert.match(html, /best &lt;free&gt; DMS/);
+  assert.match(pilotRequestsHtml([record], 'pending'), /Not provided/);
 });
 test('pilot navigation and route require explicit operator capability as well as admin', async () => {
   assert.match(sidebarNavigation(true, true), /#\/pilot-requests/);

diff --git a/packages/shared/src/index.ts b/packages/shared/src/index.ts
@@ -26,7 +26,7 @@ export * from './jacket.js';
 import type { Deal, WorkspaceSettings } from './desking.js';
 export * from './desking.js';
 export type Role = 'admin' | 'staff';
-export interface Tenant { id: string; name: string; createdAt: string; inviteAcceptedAt?: string; address?: string; phone?: string; dealerType?: 'independent' | 'franchise' | 'other' }
+export interface Tenant { id: string; name: string; createdAt: string; inviteAcceptedAt?: string; address?: string; phone?: string; dealerType?: 'independent' | 'franchise' | 'other'; hearAbout?: string; hearAboutPrompt?: string }
 export interface User { id: string; name: string; email?: string }
 export interface Membership { tenantId: string; userId: string; role: Role; active: boolean; version?: number }
 export interface SessionUser { id: string; name: string; email: string | null }
@@ -118,10 +118,22 @@ export * from './ownership.js';
 export * from './reports-p3.js';
 
 export const inventorySizes = ['1-25', '26-50', '51-100', '101-200', '201+'] as const;
+/** Optional signup attribution (#208): stable values stored on records, labels shown in forms and review screens. */
+export const hearAboutOptions = [
+  {value: 'referred', label: 'Referred by another dealer'},
+  {value: 'ai-assistant', label: 'An AI assistant (ChatGPT, Gemini, or similar)'},
+  {value: 'search', label: 'Search (Google, Bing, …)'},
+  {value: 'community', label: 'Community or trade press'},
+  {value: 'invited', label: 'Invited directly'},
+  {value: 'other', label: 'Other'}
+] as const;
+export type HearAboutValue = typeof hearAboutOptions[number]['value'];
+export const hearAboutLabel = (value: string): string => hearAboutOptions.find(option => option.value === value)?.label ?? value;
 export interface AccessRequest {
   id: string; tenantId: string; email: string;
   contactName: string; dealershipName: string;
   phone: string; inventorySize: string; currentDms: string; message: string;
+  hearAbout: string; hearAboutPrompt: string;
   status: 'pending' | 'handled'; handledAt: string | null;
   version: number; createdAt: string; updatedAt: string;
 }

diff --git a/packages/web/src/hear-about.ts b/packages/web/src/hear-about.ts
@@ -1,0 +1,24 @@
+import { hearAboutOptions } from '@freedms/shared';
+import { escapeHtml as e } from './format';
+
+/**
+ * Optional signup attribution fields (#208). One shared rendering for the
+ * onboarding wizard's final step and the invite-acceptance form: the prompt
+ * field exists in the DOM only as a hidden extra until the AI option is
+ * picked, and neither field is ever required.
+ */
+export function hearAboutFieldsHtml(value = '', prompt = ''): string {
+  return `<label>How did you hear about freeDMS? (optional)<select name="hearAbout"><option value="">Select…</option>${hearAboutOptions.map(option => `<option value="${option.value}" ${value === option.value ? 'selected' : ''}>${e(option.label)}</option>`).join('')}</select></label><label data-hear-about-prompt ${value === 'ai-assistant' ? '' : 'hidden'}>What did you ask it? (optional)<input name="hearAboutPrompt" value="${e(prompt)}" maxlength="500" placeholder="e.g. best free DMS for a small used car lot"><small>The exact words help us show up when other dealers ask the same thing.</small></label>`;
+}
+
+export function bindHearAbout(form: HTMLFormElement): void {
+  const select = form.querySelector<HTMLSelectElement>('[name=hearAbout]');
+  const prompt = form.querySelector<HTMLElement>('[data-hear-about-prompt]');
+  select?.addEventListener('change', () => { if (prompt) prompt.hidden = select.value !== 'ai-assistant'; });
+}
+
+export function readHearAbout(form: HTMLFormElement): {hearAbout: string; hearAboutPrompt: string} {
+  const values = new FormData(form);
+  const hearAbout = String(values.get('hearAbout') ?? '');
+  return {hearAbout, hearAboutPrompt: hearAbout === 'ai-assistant' ? String(values.get('hearAboutPrompt') ?? '') : ''};
+}
